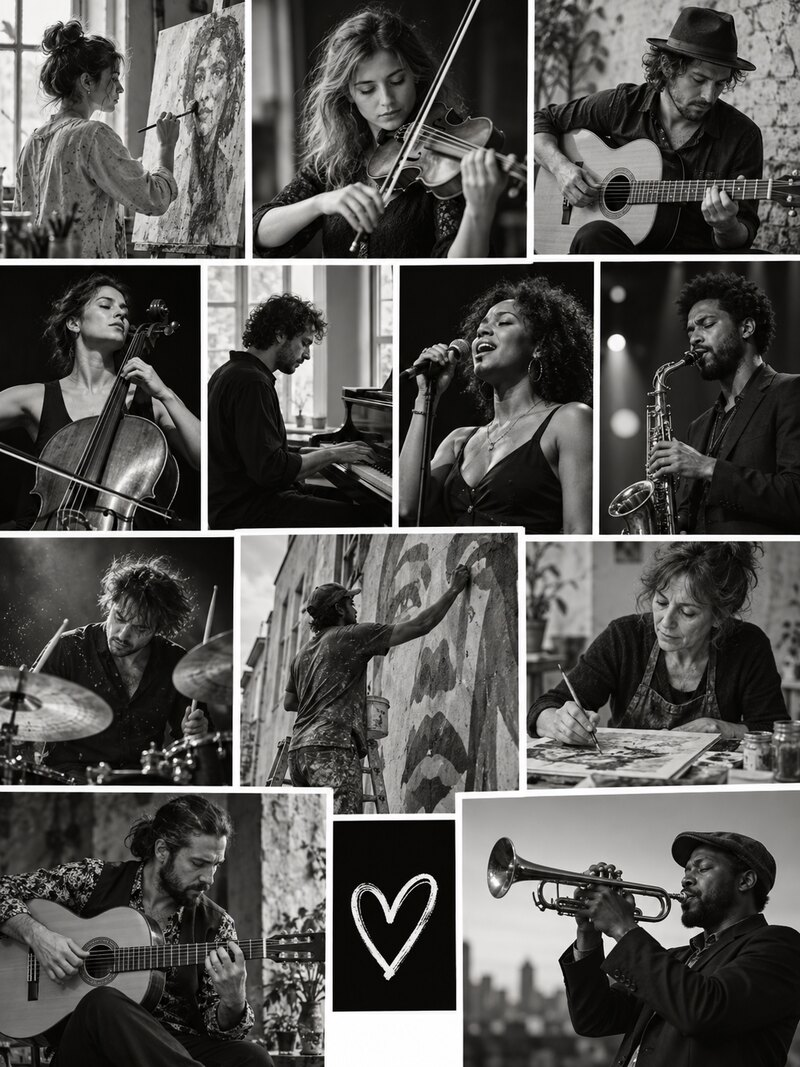
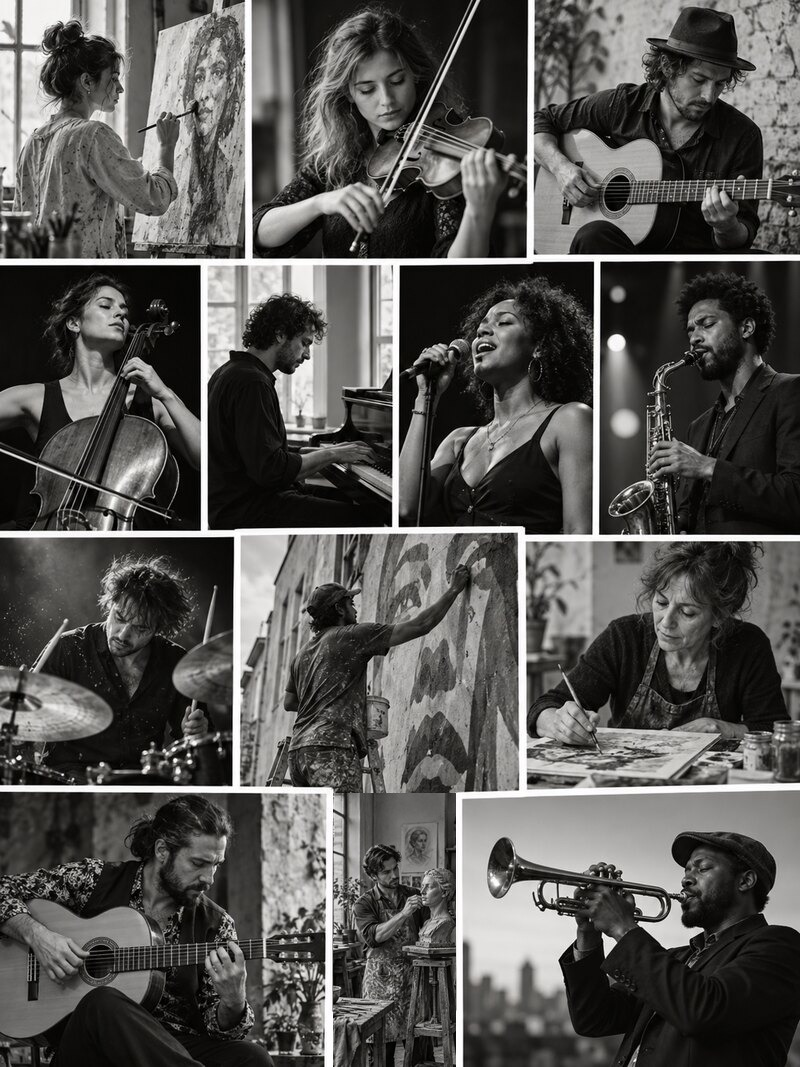
v35: mosaico de portada sin el corazon de tiza - nueva foto de un escultor trabajando un busto, en el mismo estilo B/N editorial que las demas (peticion de Alberto); alt actualizado; sw tb-v14

Changed region(s): [[0.4062, 0.7423, 0.5938, 1.0]]

diff --git a/index.html b/index.html
@@ -239,7 +239,7 @@ function home(v){
       <p class="lead">Enseña tu trabajo, encuentra proyectos y ponte en contacto.</p>
       <div class="row"><button class="btn" id="a">${session?'Ver proyectos':'Crear cuenta gratis'}</button><button class="lnk" data-go="precios">Ver precios →</button></div>
     </div>
-    <figure class="arch" style="margin:0"><img src="hero.jpg" alt="Mosaico en blanco y negro de pintores y músicos" width="800" height="1067"><figcaption>Talento en directo</figcaption></figure>
+    <figure class="arch" style="margin:0"><img src="hero.jpg" alt="Mosaico en blanco y negro de artistas: pintores, músicos y un escultor" width="800" height="1067"><figcaption>Talento en directo</figcaption></figure>
   </section>
   <div class="sech"><h2>¿Quién eres?</h2><span>Dos caminos</span></div>
   <div class="duo">

diff --git a/sw.js b/sw.js
@@ -1,6 +1,6 @@
 // TengoBolo service worker: la web funciona sin conexión para lo básico.
 // Nunca guarda llamadas a la API (datos siempre en vivo).
-const V = 'tb-v13';
+const V = 'tb-v14';
 const SHELL = ['/', '/logo-heart.png', '/hero.jpg', '/icon-192.png', '/icon-512.png', '/manifest.json'];
 self.addEventListener('install', e => { e.waitUntil(caches.open(V).then(c => c.addAll(SHELL)).then(() => self.skipWaiting())); });
 self.addEventListener('activate', e => { e.waitUntil(caches.keys().then(ks => Promise.all(ks.filter(k => k !== V).map(k => caches.delete(k)))).then(() => self.clients.claim())); });
